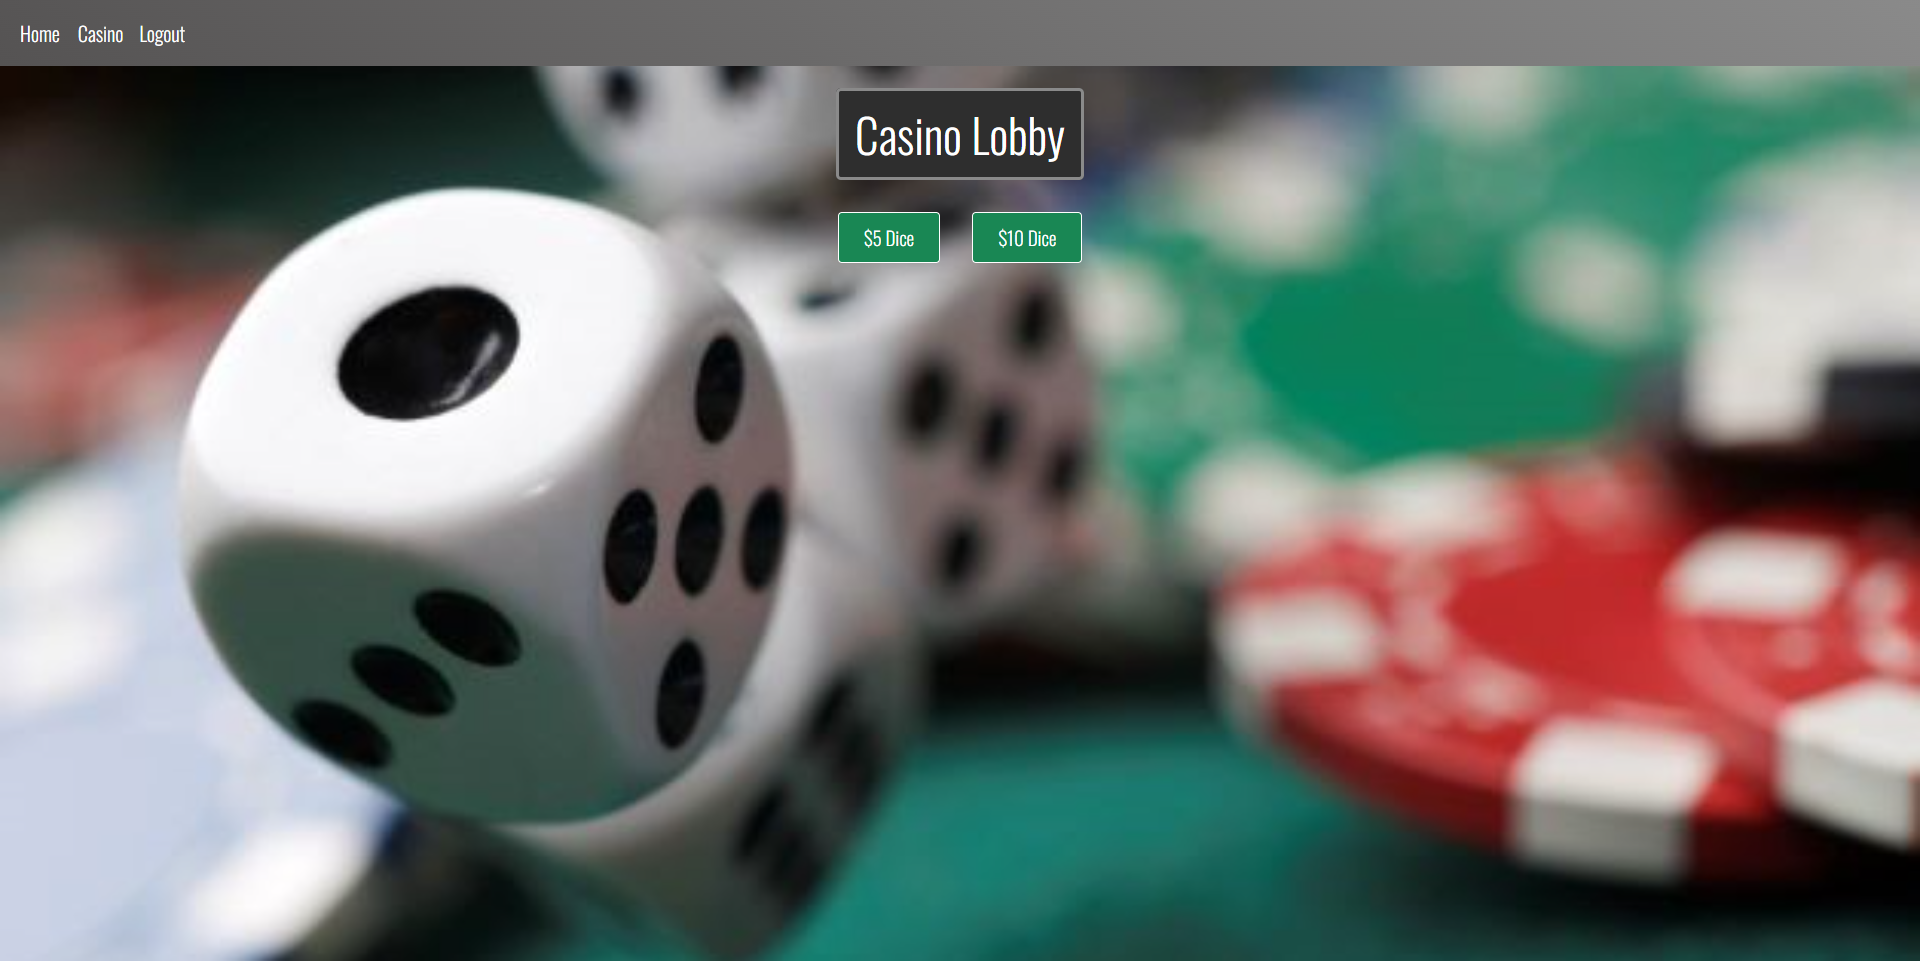
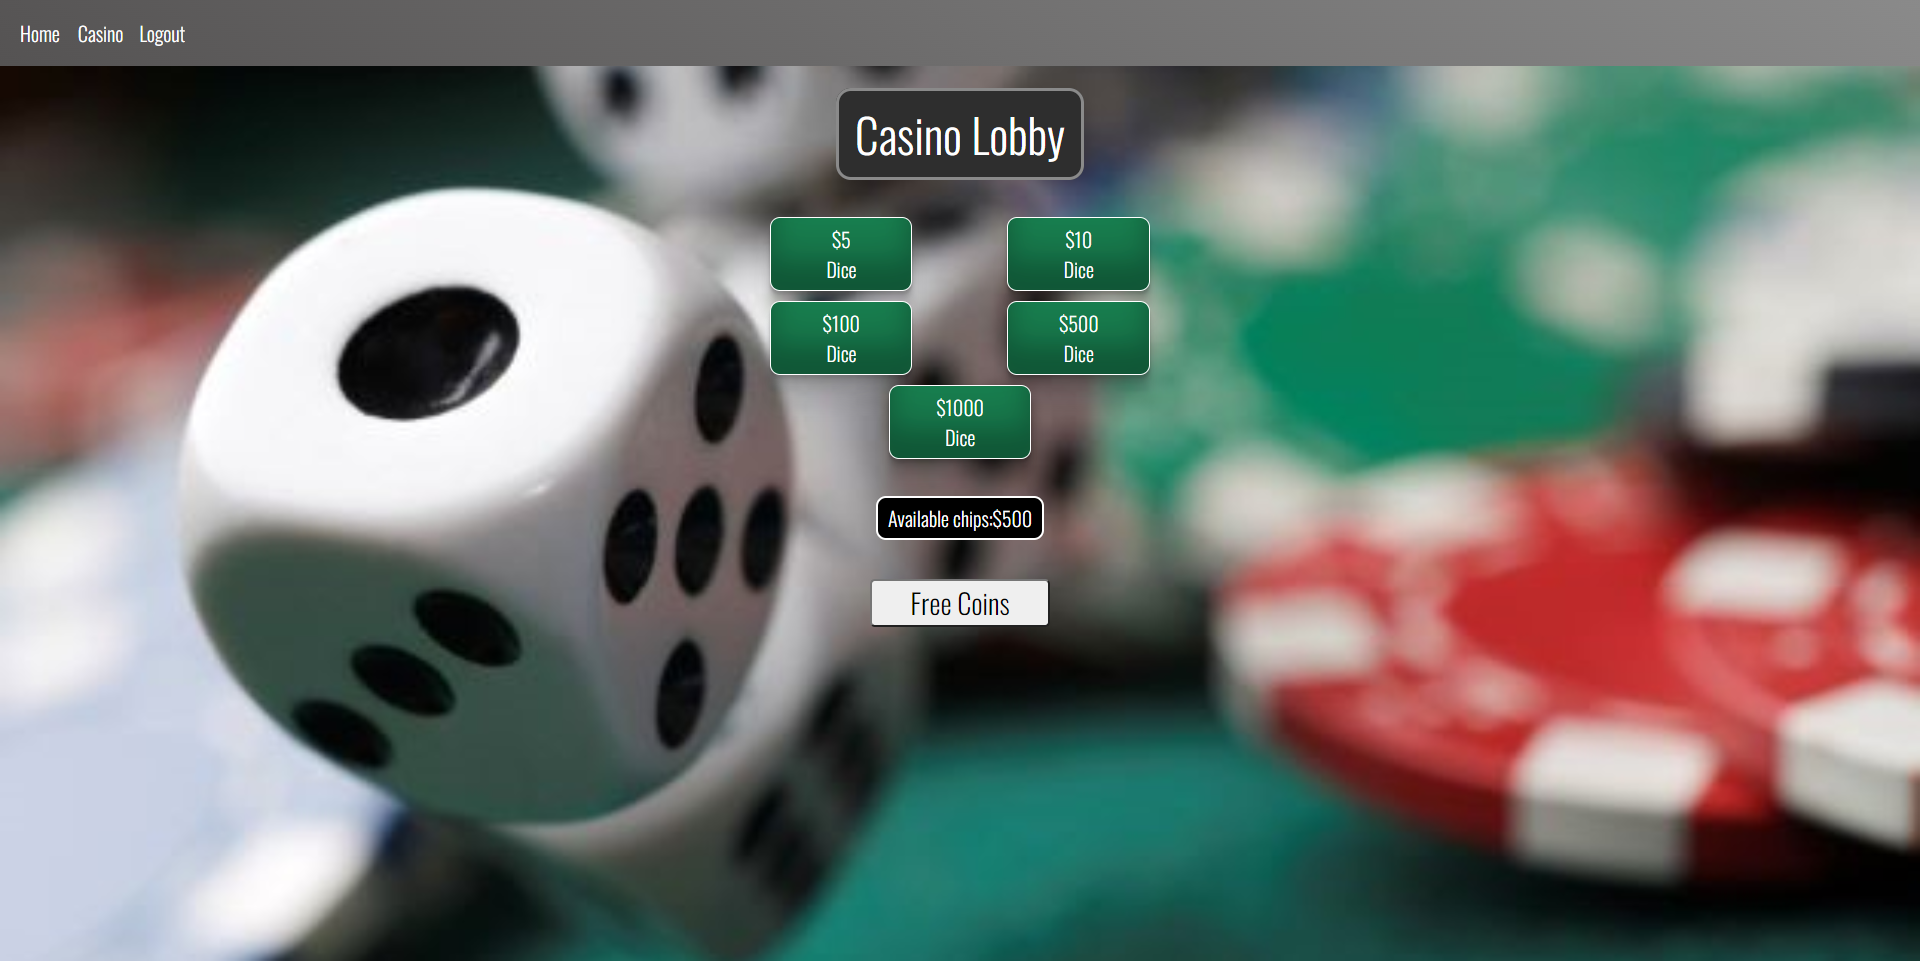
finished readme

Changed region(s): [[0.375, 0.2185, 0.625, 0.5619], [0.4375, 0.5931, 0.5625, 0.6556]]

diff --git a/README.md b/README.md
@@ -11,7 +11,7 @@
 
 ## Description:
 
-An online casino where users will have to create an account to login in order to play Roulette and win chips. 
+An online casino where users will have to create an account to login in order to play Dice!. Users will be allowed to either login or create a username and password to enter the casino. After entering users will be able to decide between betting increments of 5, 10, 100, and 500 coins. If Users reach 1000 coins they will be able to enter the "VIP room". In the "VIP room" users can only make 1000 coin bets. If user runs out of funds they will have to watch a short video to gain 50 coins. If user registers email they can gain 1000 coins. User will be able to log out and coin fund will be saved. 
 
 <br>
 
@@ -27,10 +27,9 @@ I like gambling but I dont like losing my hard earned money. So, I want a progra
 -This creates an account that is linked to their IP address and verified email address(confirmation code sent via email) <br>
 -Users must authenticate themselves via verification code that will be sent to their email<br>
 -Users starts the game with 500 chips(1 chip = 1 dollar - "NOT REAL MONEY")<br>
--Users can bet a minimum 5 chips and a maximum of 100 chips in the initial rookie table<br>
+-Users can bet a minimum 5 chips and a maximum of 500 chips in the initial rookie table<br>
 -If the user runs out of coins they will have to watch a short video to gain more coins<br>
--If user wins 250 chips they will unlock the next level where user minimum is 50 and maximum is 250<br>
--User can win from rookie table (min 50-max 250), beginner table (min 100 - max 500), veteran table (min 200 - max 1000), VIP table (min 500 - max 2500), and finally highroller table (min 1000 - max 10000)<br>
+-User can win from starting table (5, 10, 100, 500 bet), VIP table (1000 bet).<br>
 -If the user is finished playing they can save their current chips count and log out<br>
 
 <br>
@@ -96,23 +95,28 @@ Once downloaded, open the file in VS Code.
 
 <br>
 
-[Screenshot4](images/casino-lobby-screenshot.png)  "Once logged-in, Casino Lobby: User will be directed to pic either $5 dice or $10 dice."
+[Screenshot4](images/casino-lobby-screenshot.png)  "Casino Lobby: User will be directed to pick either 5, 10, 100, or 500 dice."
 <img src="images/casino-lobby-screenshot.png">
 
 <br>
 
-[Screenshot5](images/$5-dice-screenshot.png)  "$5 Game of Dice: User can pick numbered bets from 1-6 and even or odd. User will be able to see wether their bet was correct or false and their available chips. Users will need to watch short video to gain more chips."
+[Screenshot5](images/$5-dice-screenshot.png)  "5, 10, 100, and 500 coin Game of Dice: User can pick numbered bets from 1-6 and even or odd. User will be able to see wether their bet was correct or false and their available chips. Users will need to play these levels in order to gain access to 1000 coin betting room.
 <img src="images/$5-dice-screenshot.png">
 
 <br>
 
-[Screenshot6](images/$10-dice-screenshot.png)  "$10 Game of Dice: User can pick numbered bets from 1-6 and even or odd. User will be able to see wether their bet was correct or false and their available chips. Users will need to watch short video to gain more chips."
-<img src="images/$10-dice-screenshot.png">
+[Screenshot6](images/1000-dice-screenshot.png)  "1000 coin Game of Dice: User can pick numbered bets from 1-6 and even or odd. Users have to bet 1000 coins per bet. User will be able to see wether their bet was correct or false and their available chips."
+<img src="images/1000-dice-screenshot.png">
 
 <br>
 
-[Screenshot7](images/free-coins-screenshot.png)  "Free Coins: User will have to choose between watching a short video to get free coins or return to lobby. After watching video user will recieve 50 free coins."
+[Screenshot7](images/free-coins-screenshot.png)  "Free Coins: User will be able to watch a short video to gain 50 coins. The User will be able to gain 1000 coins if they register their email."
 <img src="images/free-coins-screenshot.png">
+
+<br>
+
+[Screenshot8](images/email-registration-screenshot.png)  "Email Registration: User can register email to gain access to 1000 free coins."
+<img src="images/email-registration-screenshot.png">
 
 
 
